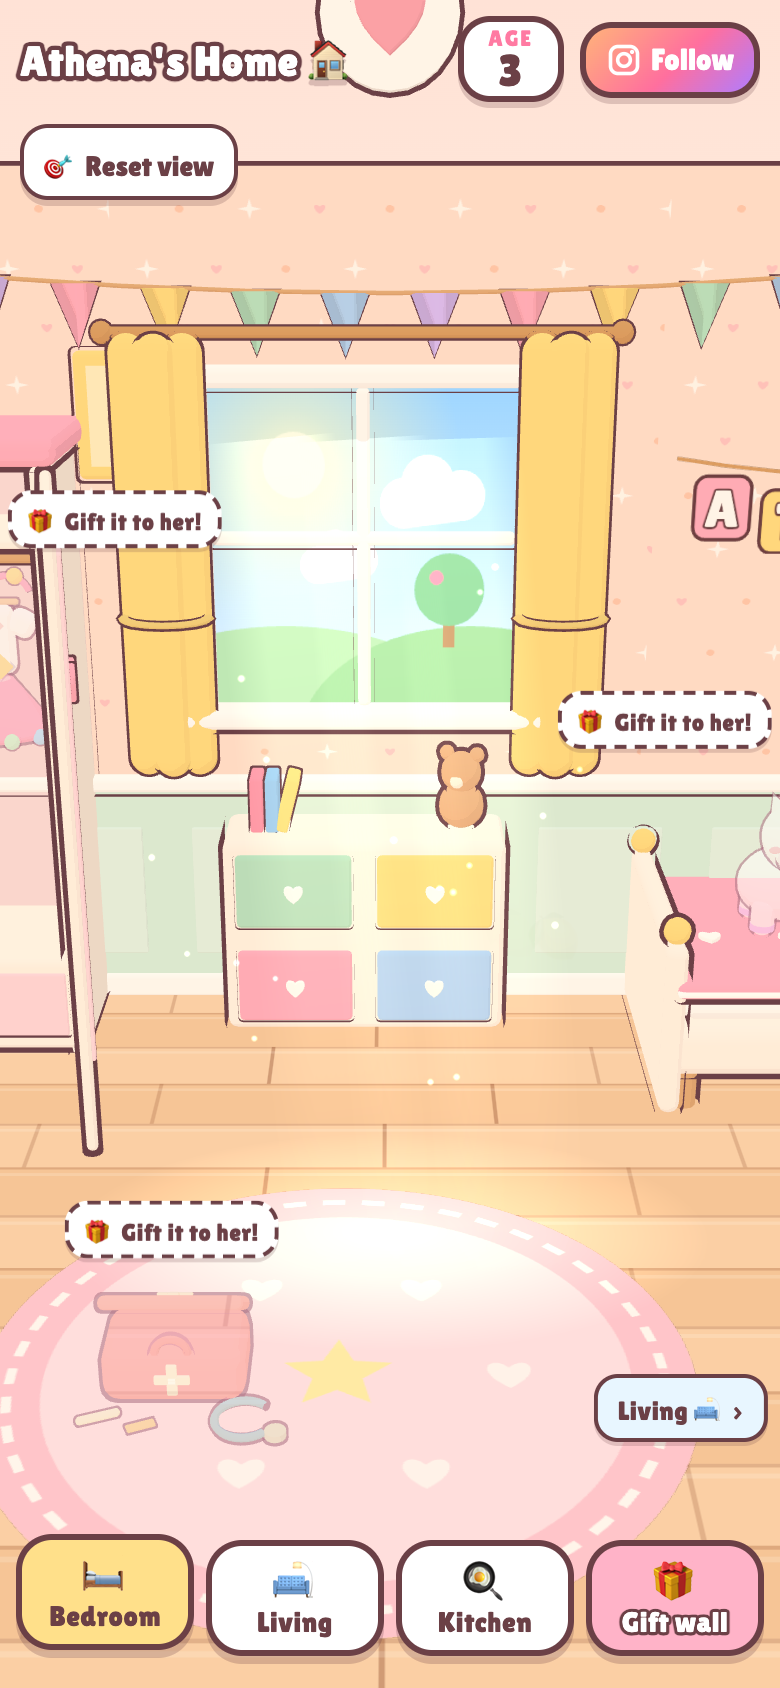
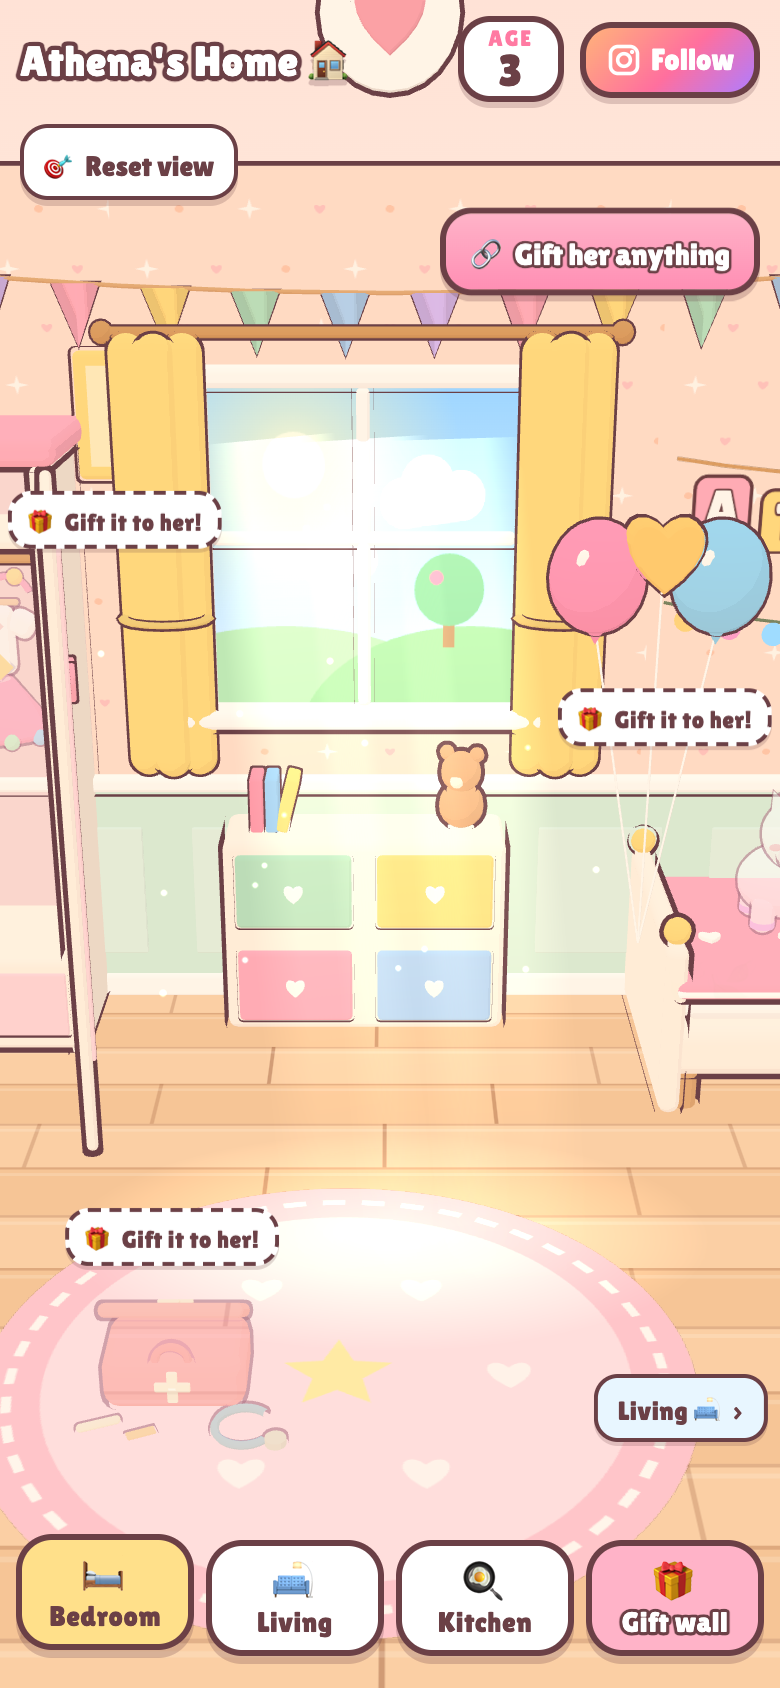
Cuter rooms: fairy lights, balloons, star mobile, rainbow, plush bunnies, cupcakes, cookie jar

diff --git a/src/decor.js b/src/decor.js
@@ -1,0 +1,128 @@
+// Extra cute decorations: glowing fairy lights, balloons, a star mobile, a rainbow, plush bunny,
+// cupcake stand and cookie jar. Placed on walls, shelves and tables so they never block Athena's walk.
+import { THREE, G } from './kit.js';
+import { mergeGeometries } from '../vendor/BufferGeometryUtils.js';
+
+const BULBS = ['#ffd27a', '#ff9fc4', '#9fdcff', '#b8f0c4', '#e2c4ff'];
+
+// little bulbs glow by themselves (no light needed), all merged into one mesh named "glow"
+function glowMesh(points, cols, r = 0.045) {
+  const geos = points.map((p, i) => {
+    const g = new THREE.SphereGeometry(r, 10, 8);
+    g.translate(p[0], p[1], p[2]);
+    const c = new THREE.Color(cols[i % cols.length]);
+    const arr = new Float32Array(g.attributes.position.count * 3);
+    for (let k = 0; k < arr.length; k += 3) { arr[k] = c.r; arr[k + 1] = c.g; arr[k + 2] = c.b; }
+    g.setAttribute('color', new THREE.BufferAttribute(arr, 3));
+    g.deleteAttribute('uv');
+    return g;
+  });
+  const m = new THREE.Mesh(mergeGeometries(geos), new THREE.MeshBasicMaterial({ vertexColors: true }));
+  m.name = 'glow';
+  return m;
+}
+
+// a sagging wire with round glowing bulbs, from (x0, y) to (x1, y) along the back wall at depth z
+export function fairyLights(k, group, x0, x1, y, z, sag = 0.1, step = 0.2) {
+  const yAt = (x) => { const t = ((x - x0) / (x1 - x0)) * 2 - 1; return y - sag * (1 - t * t); };
+  const segs = 14;
+  for (let i = 0; i < segs; i++) {
+    const a = x0 + ((x1 - x0) * i) / segs, b = x0 + ((x1 - x0) * (i + 1)) / segs;
+    const ya = yAt(a), yb = yAt(b), len = Math.hypot(b - a, yb - ya);
+    k.add(G.cyl(0.006, 0.006, len, 4), '#7a8a6a', { p: [(a + b) / 2, (ya + yb) / 2, z], r: [0, 0, Math.atan2(yb - ya, b - a) - Math.PI / 2], line: false });
+  }
+  const pts = [];
+  for (let x = x0 + step / 2; x < x1; x += step) pts.push([x, yAt(x) - 0.045, z + 0.02]);
+  group.add(glowMesh(pts, BULBS));
+}
+
+// a bunch of shiny balloons tied at `tie`, floating up and leaning a little
+export function balloons(k, tie, cols = ['#ff9fc4', '#ffd27a', '#9fdcff'], height = 1.3) {
+  const [tx, ty, tz] = tie;
+  cols.forEach((c, i) => {
+    const dx = (i - (cols.length - 1) / 2) * 0.2, dz = (i % 2) * 0.08;
+    const top = [tx + dx, ty + height + (i % 2) * 0.15, tz + dz];
+    const len = Math.hypot(dx, top[1] - ty - 0.18, dz);
+    // string
+    k.add(G.cyl(0.004, 0.004, len, 4), '#ffffff', { p: [tx + dx / 2, ty + (top[1] - ty - 0.18) / 2, tz + dz / 2], r: [dz / len, 0, -dx / len], line: false });
+    if (i === 1) {
+      k.add(G.heart(0.13, 0.08), c, { p: [top[0], top[1] - 0.05, top[2]], lw: 0.01 });
+    } else {
+      k.add(G.sph(0.16, 18, 14), c, { p: top, s: [1, 1.15, 1], lw: 0.01 });
+      k.add(G.cone(0.03, 0.05, 8), c, { p: [top[0], top[1] - 0.2, top[2]], r: [Math.PI, 0, 0], line: false });
+      // shine
+      k.add(G.sph(0.035, 8, 6), '#ffffff', { p: [top[0] - 0.06, top[1] + 0.07, top[2] + 0.12], s: [0.7, 1.2, 0.4], line: false });
+    }
+  });
+}
+
+// a baby mobile: wooden ring with hanging stars and a glowing moon
+export function mobile(k, group, p) {
+  const [x, y, z] = p;
+  k.add(G.cyl(0.006, 0.006, 0.5, 4), '#e2b07f', { p: [x, y + 0.25, z], line: false });
+  k.add(G.tor(0.28, 0.018, 8, 28), '#ffc9d8', { p: [x, y, z], r: [Math.PI / 2, 0, 0], lw: 0.007 });
+  const things = [['star', '#ffd27a'], ['heart', '#ff9fc4'], ['star', '#9fdcff'], ['cloud', '#ffffff'], ['star', '#b8f0c4']];
+  things.forEach(([kind, c], i) => {
+    const a = (i / things.length) * Math.PI * 2, hx = x + Math.cos(a) * 0.28, hz = z + Math.sin(a) * 0.28, drop = 0.18 + (i % 2) * 0.14;
+    k.add(G.cyl(0.004, 0.004, drop, 4), '#ffffff', { p: [hx, y - drop / 2, hz], line: false });
+    const py = y - drop - 0.07;
+    if (kind === 'star') k.add(G.star(0.07, 0.025), c, { p: [hx, py, hz], lw: 0.007 });
+    else if (kind === 'heart') k.add(G.heart(0.06, 0.025), c, { p: [hx, py, hz], lw: 0.007 });
+    else { k.add(G.sph(0.06, 12, 10), c, { p: [hx, py, hz], s: [1.5, 1, 0.7], lw: 0.007 }); k.add(G.sph(0.045, 12, 10), c, { p: [hx + 0.06, py + 0.03, hz], s: [1.2, 1, 0.7], line: false }); }
+  });
+  // glowing crescent moon in the middle
+  const moon = new THREE.Mesh(new THREE.TorusGeometry(0.08, 0.035, 10, 20, Math.PI * 1.25), new THREE.MeshBasicMaterial({ color: '#fff0a8' }));
+  moon.name = 'glow';
+  moon.position.set(x, y - 0.3, z); moon.rotation.z = 0.9;
+  group.add(moon);
+  k.add(G.cyl(0.004, 0.004, 0.22, 4), '#ffffff', { p: [x, y - 0.12, z], line: false });
+}
+
+// a soft rainbow on a wall; ry turns it to face into the room
+export function rainbow(k, p, ry, s = 1) {
+  const cols = ['#ff9fb3', '#ffc98a', '#ffe98a', '#b8f0c4', '#9fdcff', '#d8c4ff'];
+  k.at(p, [0, ry, 0], () => {
+    cols.forEach((c, i) => k.add(G.tor(0.42 - i * 0.055, 0.03, 8, 30, Math.PI), c, { p: [0, 0, 0.01 * i], lw: 0.007 }));
+    for (const sx of [-1, 1]) {
+      k.add(G.sph(0.1, 12, 10), '#ffffff', { p: [sx * 0.34, 0.0, 0.07], s: [1.4, 1, 0.6], lw: 0.008 });
+      k.add(G.sph(0.08, 12, 10), '#ffffff', { p: [sx * 0.24, 0.05, 0.08], s: [1.2, 1, 0.6], lw: 0.008 });
+    }
+  }, [s, s, s]);
+}
+
+// plush bunny sitting on the bed
+export function bunny(k, p, ry = 0, col = '#ffffff', inner = '#ffc9d8') {
+  k.at(p, [0, ry, 0], () => {
+    k.add(G.sph(0.1, 14, 12), col, { p: [0, 0.09, 0], s: [1, 0.95, 0.9] });
+    k.add(G.sph(0.085, 14, 12), col, { p: [0, 0.24, 0.01] });
+    for (const s of [-1, 1]) {
+      k.add(G.cap(0.03, 0.12, 8), col, { p: [s * 0.04, 0.38, 0], r: [0, 0, s * 0.18] });
+      k.add(G.cap(0.015, 0.09, 6), inner, { p: [s * 0.04, 0.38, 0.018], r: [0, 0, s * 0.18], line: false });
+      k.add(G.sph(0.012, 6, 6), '#5a3a3a', { p: [s * 0.03, 0.26, 0.08], line: false });
+      k.add(G.sph(0.02, 8, 6), '#ffb3c8', { p: [s * 0.05, 0.23, 0.07], s: [1, 0.6, 0.4], line: false });
+    }
+    k.add(G.sph(0.012, 6, 6), '#ff8fb0', { p: [0, 0.245, 0.09], line: false });
+  });
+}
+
+// cupcakes on a little stand
+export function cupcakes(k, p) {
+  const [x, y, z] = p;
+  k.add(G.cyl(0.03, 0.05, 0.08, 10), '#ffffff', { p: [x, y + 0.04, z] });
+  k.add(G.cyl(0.19, 0.19, 0.02, 24), '#ffffff', { p: [x, y + 0.09, z] });
+  [['#ff9fc4', -0.09, 0], ['#9fdcff', 0.09, 0.02], ['#ffe08a', 0, -0.09], ['#b8f0c4', 0.01, 0.09]].forEach(([c, dx, dz]) => {
+    k.add(G.cyl(0.045, 0.035, 0.05, 10), '#f4c08a', { p: [x + dx, y + 0.125, z + dz], lw: 0.005 });
+    k.add(G.sph(0.05, 10, 8), c, { p: [x + dx, y + 0.16, z + dz], s: [1, 0.8, 1], lw: 0.005 });
+    k.add(G.sph(0.014, 6, 6), '#ff5a7a', { p: [x + dx, y + 0.205, z + dz], line: false });
+  });
+}
+
+// bear-shaped cookie jar
+export function cookieJar(k, p) {
+  const [x, y, z] = p;
+  k.add(G.cyl(0.11, 0.1, 0.2, 20), '#ffe3ec', { p: [x, y + 0.1, z] });
+  k.add(G.sph(0.115, 16, 10), '#ffb3c8', { p: [x, y + 0.2, z], s: [1, 0.45, 1] });
+  for (const s of [-1, 1]) k.add(G.sph(0.035, 8, 6), '#ffb3c8', { p: [x + s * 0.07, y + 0.26, z] });
+  k.add(G.cyl(0.05, 0.05, 0.005, 14), '#c8935f', { p: [x, y + 0.1, z + 0.105], r: [Math.PI / 2, 0, 0], line: false });
+  for (const [dx, dy] of [[-0.015, 0.11], [0.02, 0.09], [0.0, 0.08]]) k.add(G.sph(0.008, 6, 6), '#6b4046', { p: [x + dx, y + dy, z + 0.108], line: false });
+}

diff --git a/src/rooms.js b/src/rooms.js
@@ -4,6 +4,7 @@
 import { THREE, Kit, G, plane, canvasTex, C2, blobTex } from './kit.js';
 import * as TX from './textures.js';
 import { tint } from './items.js';
+import * as DC from './decor.js';
 
 export const DOOR = { z0: 0.15, z1: 1.35, h: 2.2 };
 
@@ -269,6 +270,12 @@ const BUILD = {
       k.add(G.cyl(0.3, 0.3, 0.05, 28), '#ffc9d8', { r: [Math.PI / 2, 0, 0], s: [0.8, 1, 1.2] });
       k.add(G.cyl(0.25, 0.25, 0.02, 28), '#dff2ff', { p: [0, 0, 0.025], r: [Math.PI / 2, 0, 0], s: [0.8, 1, 1.2], line: false });
     });
+    // extra cute: fairy lights over the bed, star mobile, balloons, rainbow, plush bunny
+    DC.fairyLights(k, group, bx0 + 0.05, bx1 - 0.12, 1.66, bz + 0.05, 0.1, 0.17);
+    DC.mobile(k, group, [bcx + 0.35, 2.95, -0.95]);
+    DC.balloons(k, [bx0 - 0.12, 0.66, bzF - 0.05]);
+    DC.rainbow(k, [ctx.W / 2 - 0.02, 2.2, -0.62], -Math.PI / 2, 0.9);
+    DC.bunny(k, [bx1 - 0.55, 0.53, bcz + 0.18], -0.4);
   },
 
   living(k, ctx, group) {
@@ -338,6 +345,10 @@ const BUILD = {
       k.add(G.heart(0.07, 0.02), '#ff8fb0', { p: [0.05, 0.12, 0], lw: 0.007 });
     });
     bunting(k, -2.9, 2.9, 3.05, bz + 0.06, 0.15);
+    // extra cute: fairy lights behind the sofa, balloons on the sofa arm, a bunny on the sofa
+    DC.fairyLights(k, group, sx - sw / 2 + 0.05, sx + sw / 2 - 0.05, 1.36, bz + 0.05, 0.06, 0.19);
+    DC.balloons(k, [sx - sw / 2 + 0.05, 0.72, bz + 0.62], ['#9fdcff', '#ff9fc4', '#b8f0c4'], 1.25);
+    DC.bunny(k, [sx - 0.25, 0.49, bz + 0.5], 0.2, '#ffe9f0', '#ffb3c8');
   },
 
   kitchen(k, ctx, group) {
@@ -444,6 +455,10 @@ const BUILD = {
     k.add(G.tor(0.2, 0.02, 6, 20), '#d9a36a', { p: [2.4, 0.2, 0.55], r: [Math.PI / 2, 0, 0], line: false });
     const fruit = ctx.part([2.4, 0.24, 0.55], (kk) => [['#ff8a8a', -0.06, 0], ['#ffd76a', 0.07, 0.03], ['#a8e2a8', 0, -0.07]].forEach(([c, dx, dz]) => kk.add(G.sph(0.07, 12, 10), c, { p: [dx, 0, dz], lw: 0.008 })));
     ctx.touch({ name: 'basket', box: [2.4, 0.15, 0.55, 0.45, 0.35, 0.45], say: 'Play food! 🍋', act: 'reach', react: 'hop', target: fruit, emoji: '🍋' });
+    // extra cute: fairy lights over the counter, cupcakes on the table, a bear cookie jar
+    DC.fairyLights(k, group, cx0 + 0.1, cx1 - 0.1, 2.66, bz + 0.05, 0.08, 0.2);
+    DC.cupcakes(k, [tx + 0.2, 0.775, tz + 0.18]);
+    DC.cookieJar(k, [-2.45, ch + 0.03, bz + 0.3]);
   },
 };
 
